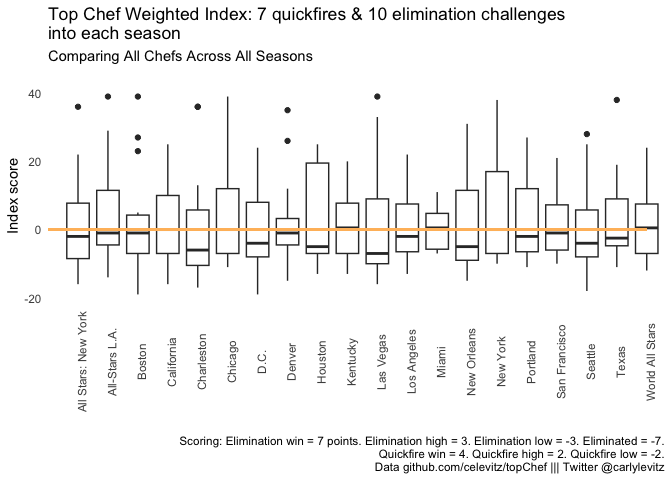
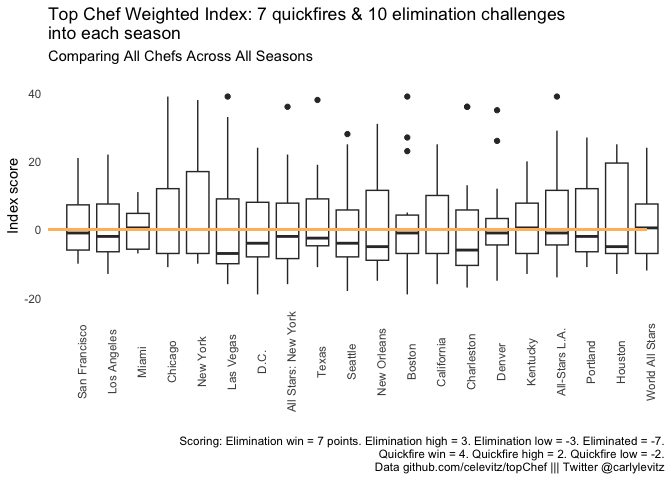
Update Examples of Index Scores

diff --git a/README.md b/README.md
@@ -174,7 +174,7 @@ episodeinfo
 #> #   air_date <date>, #.of.competitors <dbl>
 ```
 
-## Examples
+## Example: Using multiple datasets
 
 ### How many elimination challenge wins did Top Chef winners have?
 
@@ -221,8 +221,103 @@ chefdetails %>%
     
 ```
 
-### How do past seasons compare to how Season 20 is currently going?
+## Examples: Using the `weightedindex` function
 
-#### Visualization
+### 
 
-![](README_files/figure-gfm/Viz_IndexAllSeasons-1.png)<!-- -->![](README_files/figure-gfm/Viz_IndexAllSeasons-2.png)<!-- -->
+The `weightedindex` function takes the following parameters:
+
+- `series`: US, US Masters, or Canada
+- `seasonnumber`: Values between 1 and 20 for Top Chef US; 1 through 5
+  for US Masters; and 6 for Canada
+- `numberofelimchalls`: Number of elimination challenges through which
+  you want to calculate the index
+- `numberofquickfires`: Number of quickfire challenges through which you
+  want to calculate the index
+
+The following examples are looking across all seasons through the point
+in the season where there were 10 elimination challenges or 7 quickfire
+challenges.
+
+#### Visualizations
+
+The circles represent outliers: Michael in Las Vegas, Richard in All
+Stars: New York, Paul in Texas, and Kristen in Seattle. The thick bar
+within the rectangles are the averages of chefs scores in that season.
+
+![](README_files/figure-gfm/Viz_IndexAllSeasons-1.png)<!-- -->
+
+This example shows the index scores for the Top Four chefs in all
+seasons with the remaining six chefs from Top Chef World All Stars. Ali,
+Buddha, and Amar thus far have the highest index scores.
+
+![](README_files/figure-gfm/Viz_IndexTopFour-1.png)<!-- -->
+
+#### Code
+
+``` r
+library(topChef); library(ggplot2); library(tidyverse)
+ ## Get the index for all seasons
+    
+    allseasons <- weightedindex("US",1,10,7)
+    for (season in seq(1,20,1)) {
+      allseasons <- rbind(allseasons,weightedindex("US",season,10,7))
+      
+    }
+
+    # drop unneeded variables
+    allseasons <- allseasons[,c("chef","szn","sznnumber","placement","indexWeight")]
+    
+  ## Graph it
+    # for sorting reasons, have the season be a character
+    allseasons$seasonnumchar[allseasons$sznnumber <= 9] <- 
+      paste0("0",as.character(allseasons$sznnumber[allseasons$sznnumber <= 9]))
+    allseasons$seasonnumchar[allseasons$sznnumber > 9] <- 
+      as.character(allseasons$sznnumber[allseasons$sznnumber > 9])
+    
+    # for sorting reasons, have the placement as a character
+    allseasons$placementchar[allseasons$placement <= 9] <- 
+      paste0("0",as.character(allseasons$placement[allseasons$placement <= 9]))
+    allseasons$placementchar[allseasons$placement > 9] <- 
+      as.character(allseasons$placement[allseasons$placement > 9])
+    
+  # Distribution of scores at this stage of the competition
+    allseasons %>%
+      ggplot(aes(x=seasonnumchar,y=indexWeight) ) +
+      geom_boxplot() +
+      # add horizontal line at 0
+      geom_rect(aes(xmin=0
+                    ,xmax=20
+                    ,ymin=-.5
+                    ,ymax=0.5)
+                ,fill="#ffbc69") +
+      theme_minimal() +
+      labs(title=paste0("Top Chef Weighted Index: 7 quickfires & 10 elimination challenges\ninto each season")
+           ,subtitle="Comparing All Chefs Across All Seasons\n"
+           ,caption="Scoring: Elimination win = 7 points. Elimination high = 3. Elimination low = -3. Eliminated = -7.\nQuickfire win = 4. Quickfire high = 2. Quickfire low = -2.\nData github.com/celevitz/topChef ||| Twitter @carlylevitz")+
+      scale_x_discrete(labels=unique(allseasons$szn[order(allseasons$sznnumber)])) +
+      theme_minimal() +
+      ylab("Index score") + xlab("") +
+      theme(panel.grid = element_blank() 
+            ,axis.text.x=element_text(angle=90)
+            )
+  
+   # Top Four: Distribution of scores at this stage of the competition
+    allseasons[allseasons$placement <= 4,]  %>%
+      ggplot(aes(x=placement,y=indexWeight,label=chef) ) +
+      # add horizontal line at 0
+      geom_rect(aes(xmin=.5 ,xmax=4.5 ,ymin=-.2 ,ymax=0.2) ,fill="#ffbc69") +
+      geom_text(size=2) +
+      theme_minimal() +
+      labs(title=paste0("Top Chef Weighted Index: 7 quickfires & 10 elimination challenges\ninto each season")
+           ,subtitle="Comparing Top Four Chefs Across All Seasons\n"
+           ,caption="Scoring: Elimination win = 7 points. Elimination high = 3. Elimination low = -3. Eliminated = -7.\nQuickfire win = 4. Quickfire high = 2. Quickfire low = -2.\nData github.com/celevitz/topChef ||| Twitter @carlylevitz")+
+      scale_x_continuous(lim=c(.5,4.5),breaks=c(1,1.5,2,3,4),labels=c("1","Current\nseason","2","3","4")) +
+      theme_minimal() +
+      ylab("Index score") + xlab("Placement") +
+      theme(panel.grid = element_blank() 
+            
+            )
+      
+    
+```
